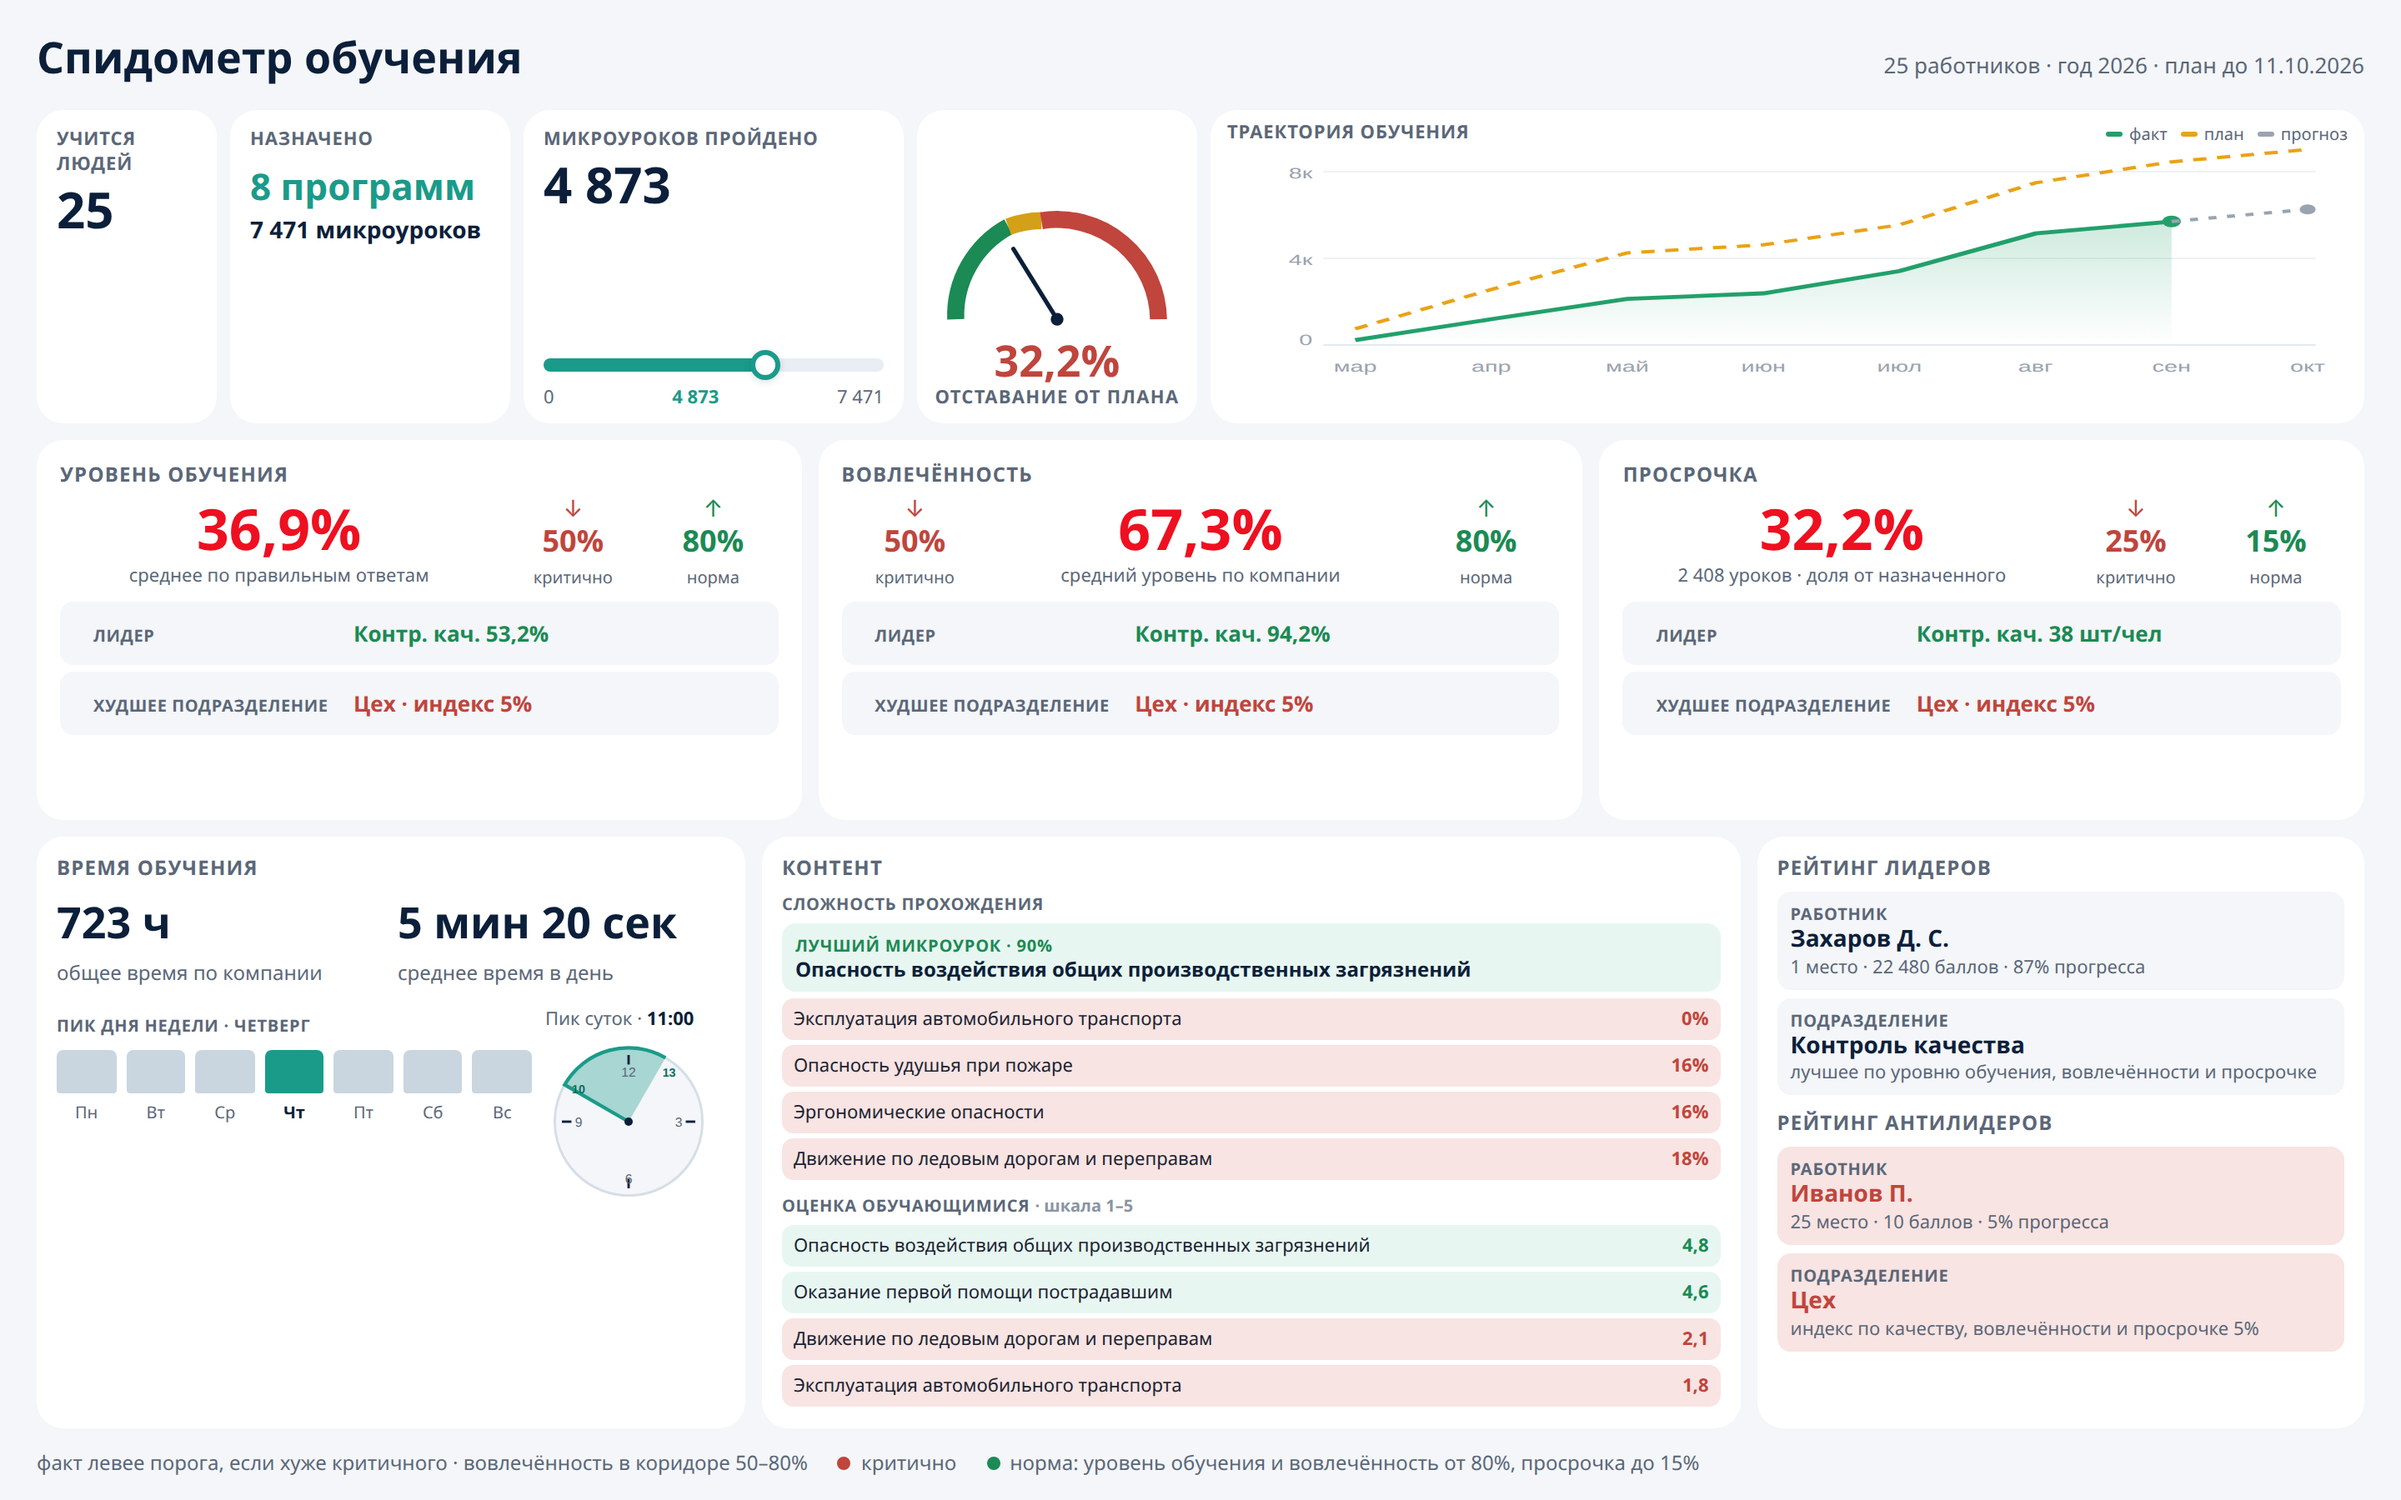
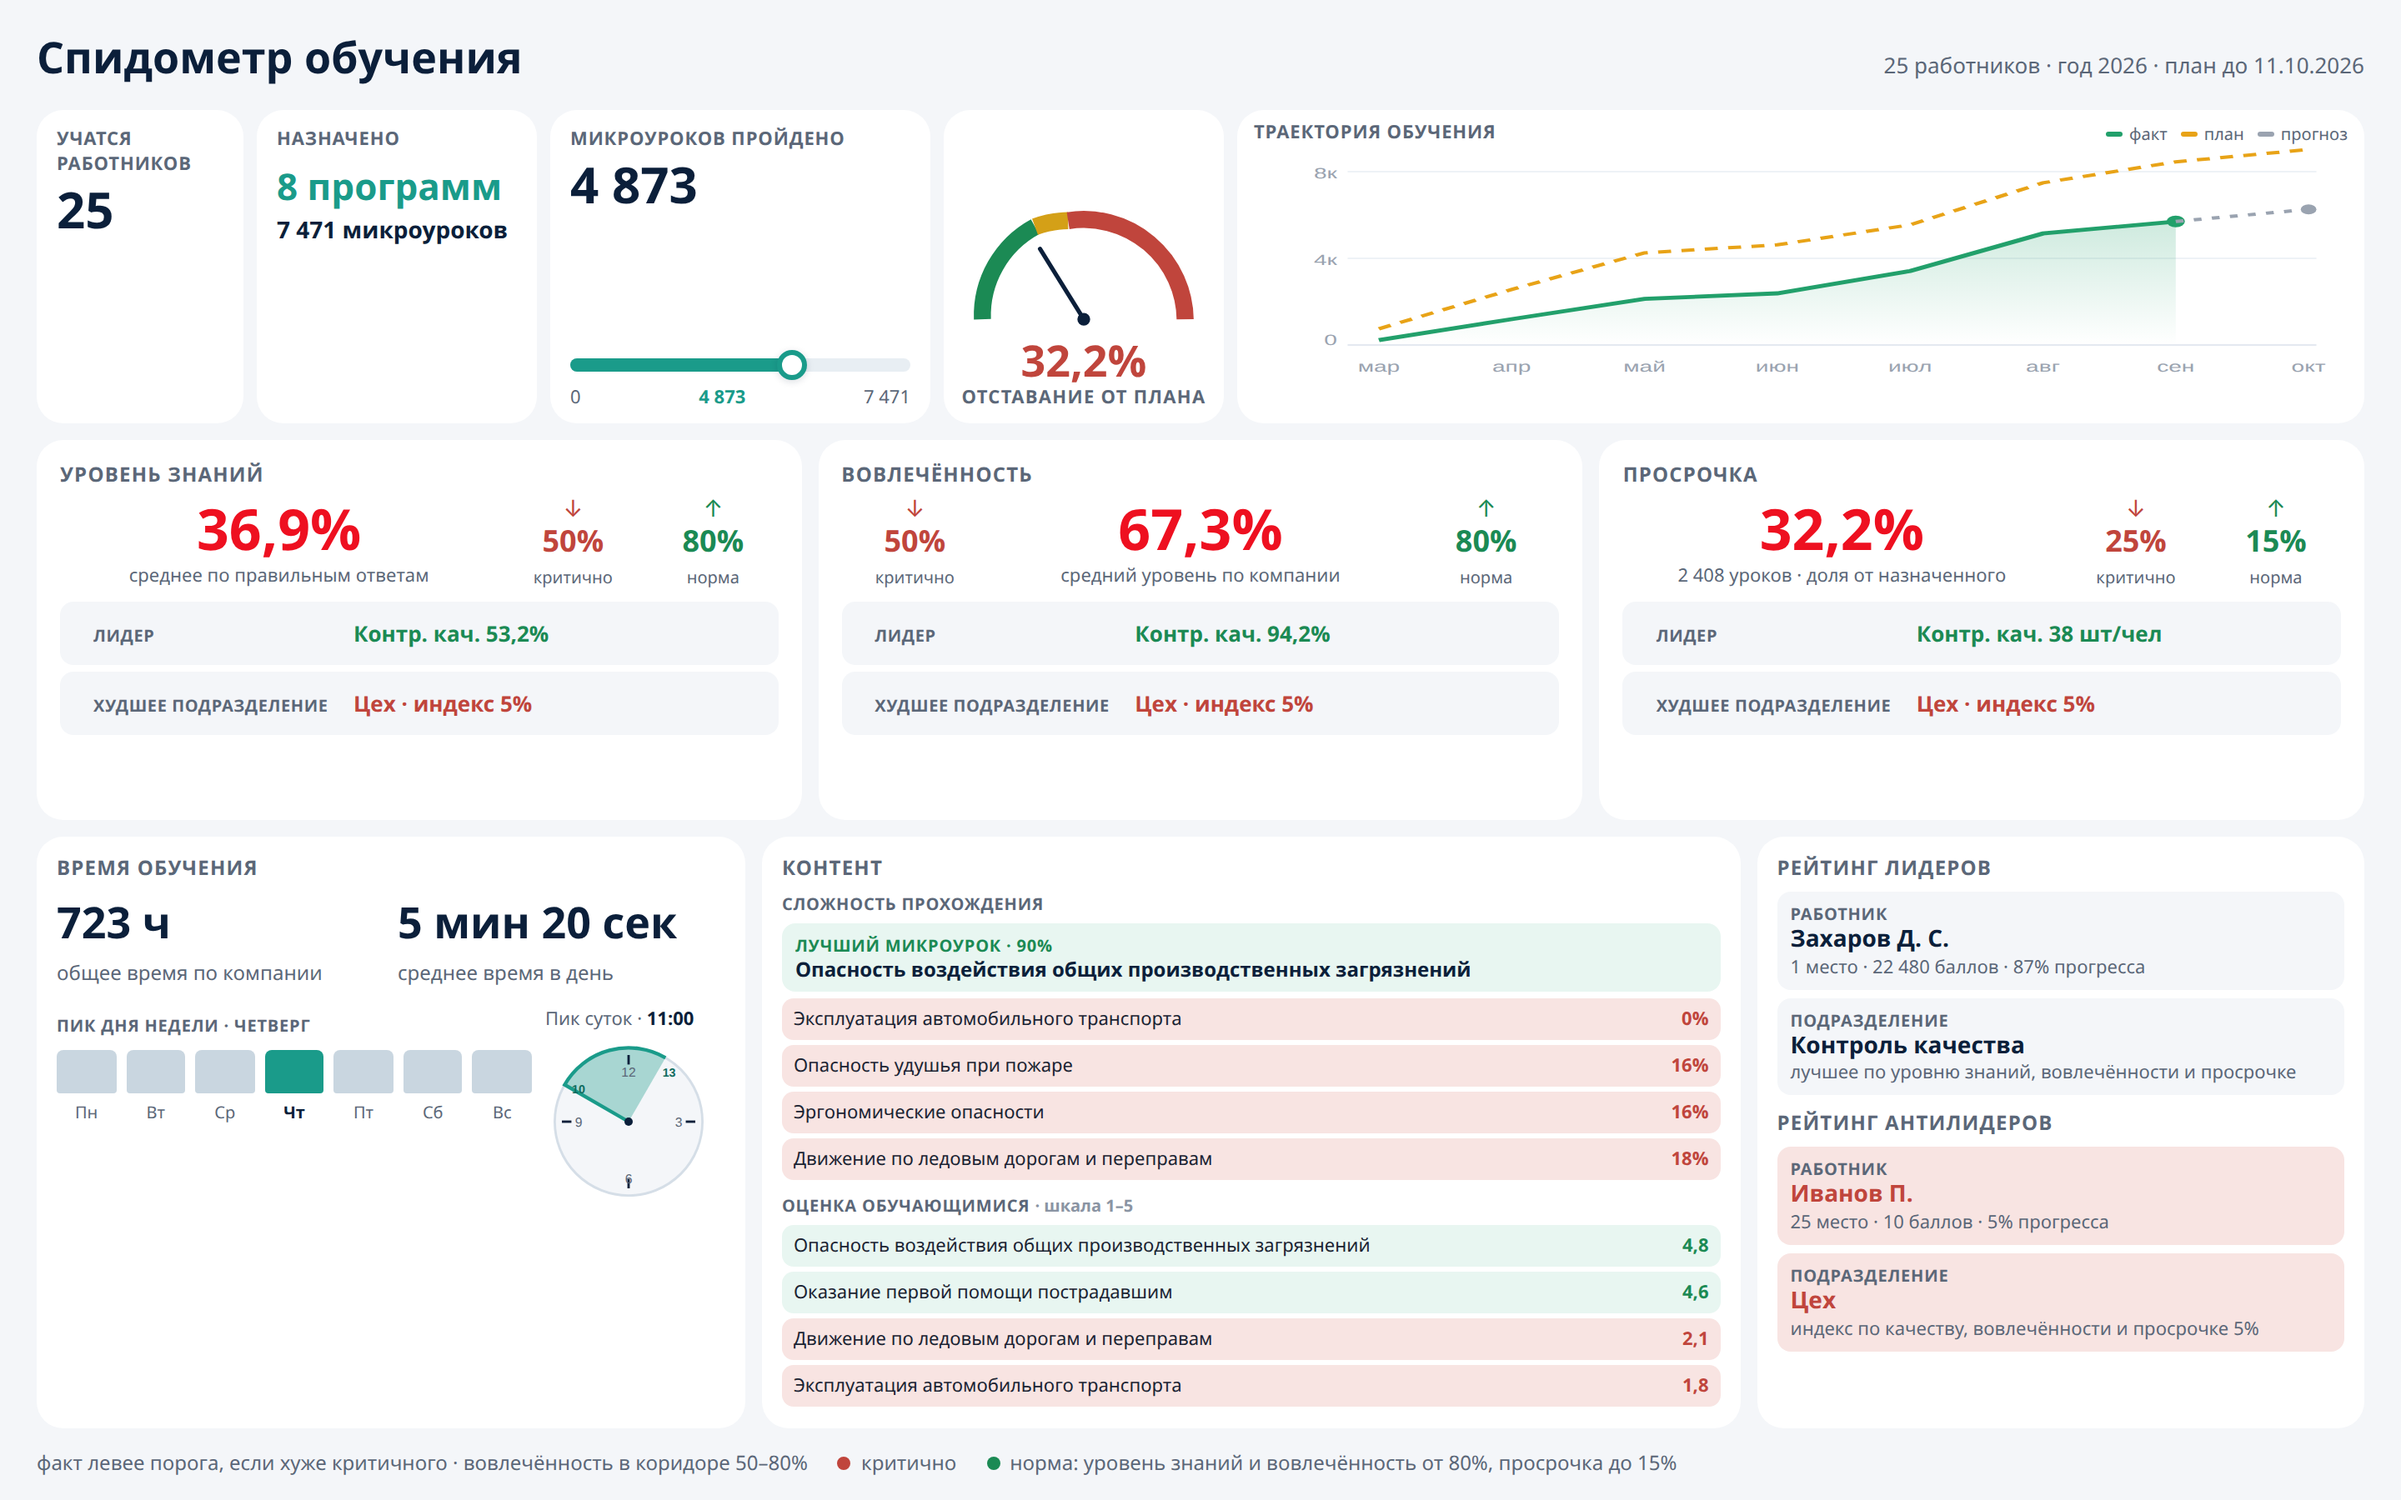
Restore knowledge-level on the middle card and label the first plaque as workers.
The first KPI now reads «Учатся работников»; the second-row center card is «Уровень знаний».

diff --git a/issledovaniya/vizualy/spidometr-obucheniya.html b/issledovaniya/vizualy/spidometr-obucheniya.html
@@ -40,7 +40,7 @@
     }
     .left-pack {
       display: grid;
-      grid-template-columns: 108px max-content 228px;
+      grid-template-columns: 124px max-content 228px;
       gap: 8px;
       width: max-content;
     }
@@ -146,7 +146,7 @@
     <div class="hero">
       <div class="left-pack">
         <div class="card kpi tight">
-          <div class="t">Учится людей</div>
+          <div class="t">Учатся работников</div>
           <div class="n">25</div>
         </div>
         <div class="card kpi tight assign">
@@ -223,7 +223,7 @@
 
     <div class="row3">
       <div class="card metric">
-        <h2>Уровень обучения</h2>
+        <h2>Уровень знаний</h2>
         <div class="tri left-fact">
           <div class="mid red">
             <div class="big">36,9%</div>
@@ -368,7 +368,7 @@
           <div class="box">
             <div class="l">Подразделение</div>
             <div class="n">Контроль качества</div>
-            <div class="d">лучшее по уровню обучения, вовлечённости и просрочке</div>
+            <div class="d">лучшее по уровню знаний, вовлечённости и просрочке</div>
           </div>
         </div>
         <h2 class="anti-h">Рейтинг антилидеров</h2>
@@ -390,7 +390,7 @@
     <div class="legend">
       <span>факт левее порога, если хуже критичного · вовлечённость в коридоре 50–80%</span>
       <span><i class="dot" style="background:#C0453C"></i>критично</span>
-      <span><i class="dot" style="background:#1B8A54"></i>норма: уровень обучения и вовлечённость от 80%, просрочка до 15%</span>
+      <span><i class="dot" style="background:#1B8A54"></i>норма: уровень знаний и вовлечённость от 80%, просрочка до 15%</span>
     </div>
   </div>
 </body>
